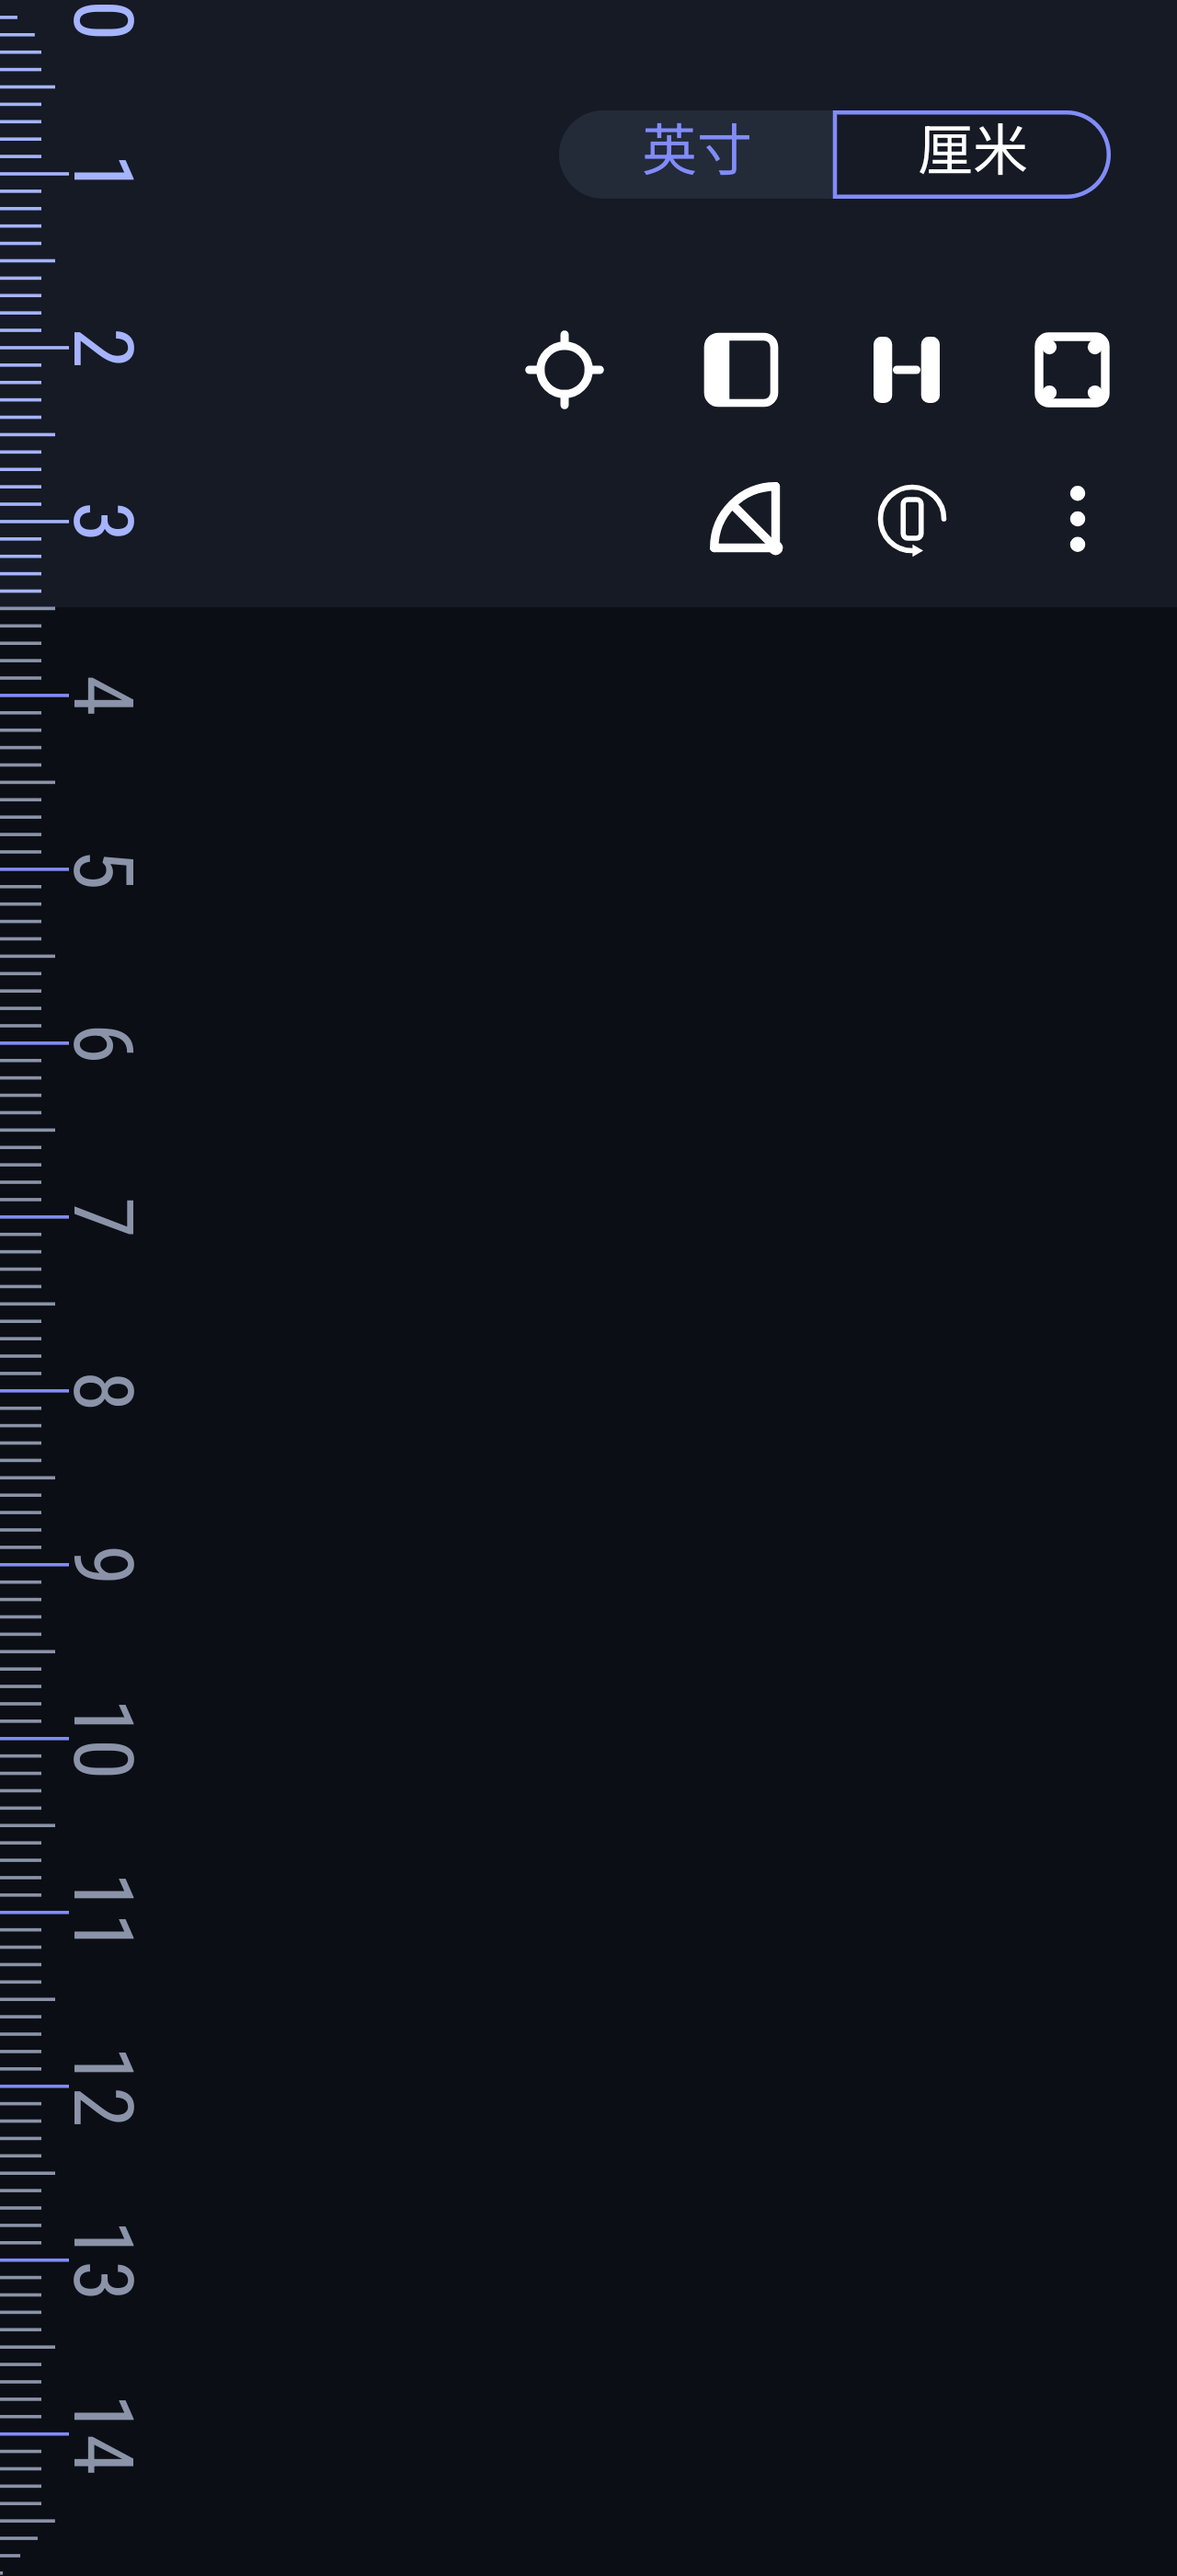
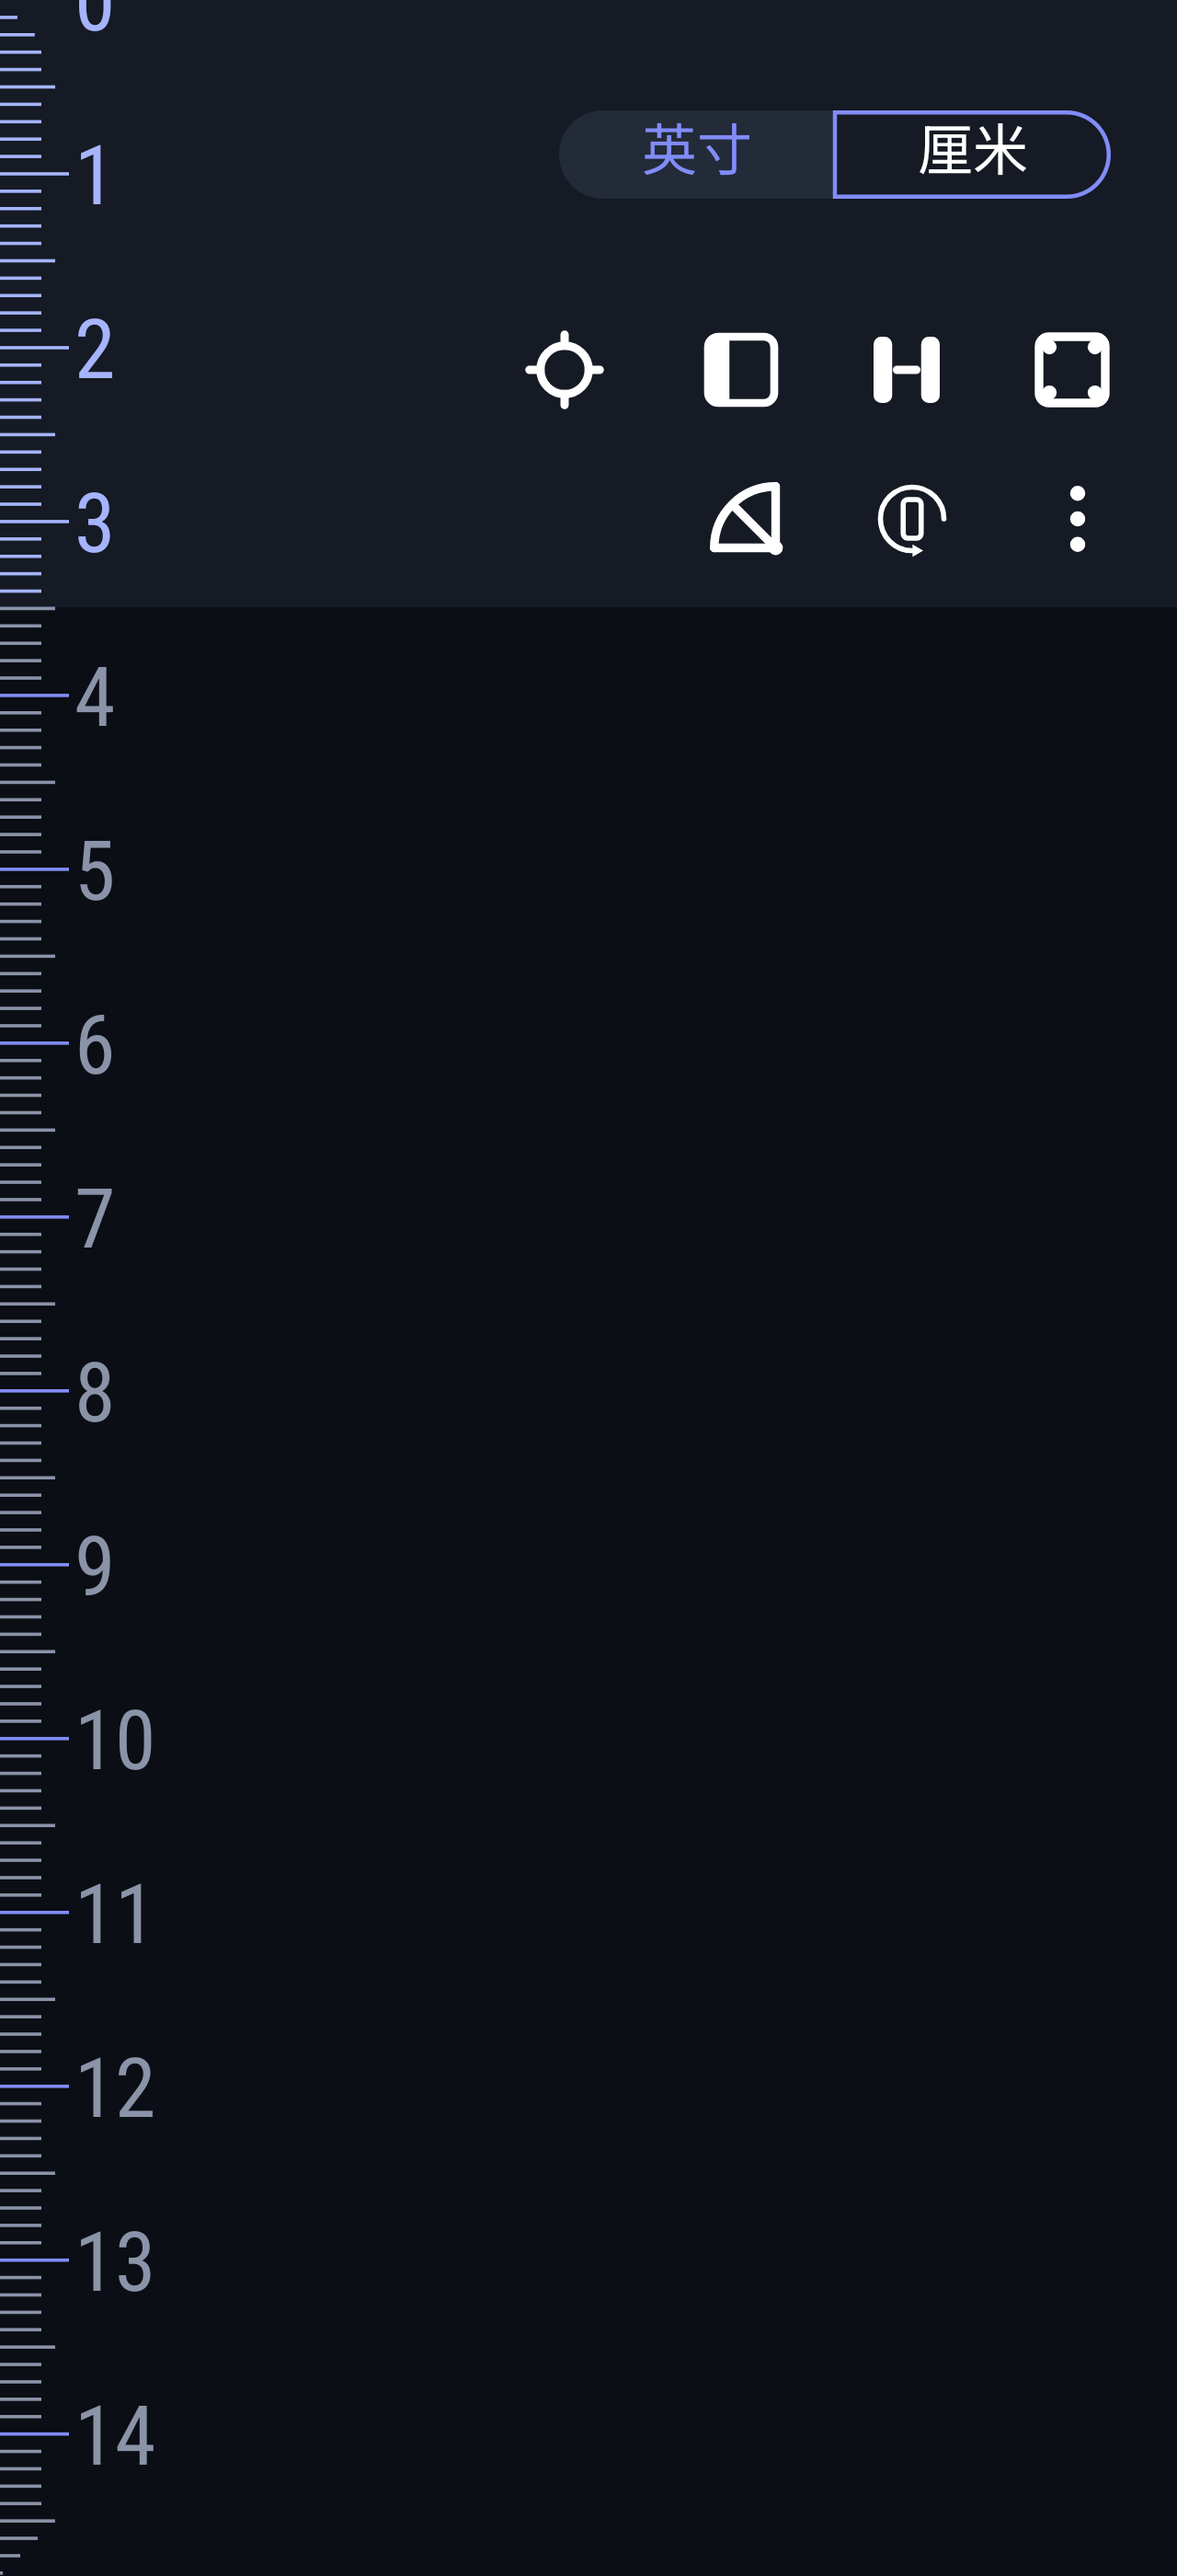
Keep ruler labels upright and turn the portrait protractor quarter turn
Portrait ruler: the tick numbers were rotated 90 degrees with the scale,
which meant tilting the head to read them while measuring. They now stay
horizontal in both orientations.

Portrait protractor: the dial runs along the left long edge (the edge that
gets lined up with the object) and the angle readout is drawn horizontally
at the bottom of the screen instead of inside the turned dial. Touch
mapping follows the turned dial so dragging an arm still matches the angle.

diff --git a/app/src/main/java/org/openruler/app/view/ProtractorView.kt b/app/src/main/java/org/openruler/app/view/ProtractorView.kt
@@ -48,6 +48,9 @@ class ProtractorView @JvmOverloads constructor(
     private var tickRadius = 0f
     private var wedgeRadius = 0f
 
+    /** `true` while the phone is upright: the dial then runs along the left long edge. */
+    private var portrait = false
+
     private val tickPaint = Paint(Paint.ANTI_ALIAS_FLAG).apply { style = Paint.Style.STROKE }
     private val labelPaint = Paint(Paint.ANTI_ALIAS_FLAG).apply {
         textAlign = Paint.Align.CENTER
@@ -104,11 +107,27 @@ class ProtractorView @JvmOverloads constructor(
 
     override fun onSizeChanged(w: Int, h: Int, oldw: Int, oldh: Int) {
         super.onSizeChanged(w, h, oldw, oldh)
-        centerX = w / 2f
         val bottomLimit = h - labelHeight - 2f * inset
-        tickRadius = min(bottomLimit - inset, w / 2f - inset - gap).coerceAtLeast(dp(40f))
-        centerY = bottomLimit
-        wedgeRadius = hypot(centerX, centerY) * 1.05f
+        portrait = h > w
+        if (portrait) {
+            // The long edge is the one that gets lined up with the object, so in portrait the
+            // dial takes a quarter turn: its base line runs down the left side and the scale
+            // opens to the right. Only the readout stays horizontal, along the bottom.
+            centerX = inset
+            centerY = bottomLimit / 2f
+            tickRadius = min(bottomLimit / 2f - inset, w - 2f * inset).coerceAtLeast(dp(40f))
+        } else {
+            centerX = w / 2f
+            centerY = bottomLimit
+            tickRadius = min(bottomLimit - inset, w / 2f - inset - gap).coerceAtLeast(dp(40f))
+        }
+        // The wedge has to reach past every corner, whichever way the dial is turned.
+        wedgeRadius = maxOf(
+            hypot(centerX, centerY),
+            hypot(w - centerX, centerY),
+            hypot(centerX, h - centerY),
+            hypot(w - centerX, h - centerY)
+        ) * 1.05f
         wedgeRect.set(
             centerX - wedgeRadius, centerY - wedgeRadius,
             centerX + wedgeRadius, centerY + wedgeRadius
@@ -127,6 +146,9 @@ class ProtractorView @JvmOverloads constructor(
         val color = palette.accent
         wedgePaint.color = color
         anglePaint.color = color
+
+        val saved = canvas.save()
+        if (portrait) canvas.rotate(90f, centerX, centerY)
 
         drawWedge(canvas)
         drawScale(canvas, color)
@@ -154,7 +176,12 @@ class ProtractorView @JvmOverloads constructor(
         // The pivot always sits inside the wedge; keep it visible while measuring.
         dotPaint.color = if (measuring) palette.background else color
         canvas.drawCircle(centerX, centerY, dp(2f), dotPaint)
-        canvas.drawText(String.format(Locale.ROOT, "%.1f°", angle), centerX, height - inset, anglePaint)
+
+        canvas.restoreToCount(saved)
+
+        // The readout keeps its own direction so it can be read while the phone is upright.
+        anglePaint.color = color
+        canvas.drawText(String.format(Locale.ROOT, "%.1f°", angle), width / 2f, height - inset, anglePaint)
     }
 
     private fun drawWedge(canvas: Canvas) {
@@ -274,7 +301,18 @@ class ProtractorView @JvmOverloads constructor(
         val dx = x - centerX
         val dy = centerY - y
         if (hypot(dx, dy) < dp(12f)) return null
-        val degrees = Math.toDegrees(atan2(dy.toDouble(), dx.toDouble())).toFloat()
+        val degrees = if (portrait) {
+            // The dial is turned a quarter turn here: 0° points down the screen, 90° right.
+            // Touches past the base line fold onto the nearer end of the scale.
+            val raw = Math.toDegrees(atan2(dx.toDouble(), (y - centerY).toDouble())).toFloat()
+            when {
+                raw < -90f -> 180f
+                raw < 0f -> 0f
+                else -> raw
+            }
+        } else {
+            Math.toDegrees(atan2(dy.toDouble(), dx.toDouble())).toFloat()
+        }
         return degrees.coerceIn(0f, 180f)
     }
 

diff --git a/app/src/main/java/org/openruler/app/view/RulerView.kt b/app/src/main/java/org/openruler/app/view/RulerView.kt
@@ -297,18 +297,9 @@ class RulerView @JvmOverloads constructor(
             canvas.drawLine(originX, y, originX + visible, y, paint)
             if (isLabel) {
                 val label = ((i / perLabel) * labelStep).toString()
-                if (portrait) {
-                    // Portrait: the numbers run down the long edge, the way the calibration
-                    // ruler prints them, so the scale keeps one drawing routine.
-                    val advance = textPaint.measureText(label)
-                    val start = (y - advance / 2f).coerceAtLeast(0f)
-                    val save = canvas.save()
-                    canvas.rotate(90f, labelX, start)
-                    canvas.drawText(label, labelX, start, textPaint)
-                    canvas.restoreToCount(save)
-                } else {
-                    canvas.drawText(label, labelX, y + labelTextHeight / 2f, textPaint)
-                }
+                // Labels stay horizontal in both orientations so the scale can be read at a
+                // glance while the phone is held upright.
+                canvas.drawText(label, labelX, y + labelTextHeight / 2f, textPaint)
             }
         }
         textPaint.textAlign = Paint.Align.CENTER

diff --git a/README.md b/README.md
@@ -22,12 +22,12 @@
 
 | 功能 | 说明 |
 | --- | --- |
-| 全屏尺子 | 默认竖屏，刻度沿左侧长边；横屏时刻度回到上下长边；厘米 / 毫米 / 英寸三种单位，1 mm 或 1/8 inch 一格 |
+| 全屏尺子 | 默认竖屏，刻度沿左侧长边；横屏时刻度回到上下长边；厘米 / 毫米 / 英寸三种单位，1 mm 或 1/8 inch 一格，数字始终横排、不用歪头看 |
 | 横竖屏切换 | 工具栏上的旋转按钮一键切换，设置里还可以选竖屏 / 横屏各自的反向 |
 | 单点测量 | 一条可拖动的边：竖屏从屏幕顶边量下来，横屏从屏幕左边缘量过去 |
 | 两点测量 | 两条可拖动的边，测量两点之间的距离 |
 | 矩形测量 | 可拖动矩形，实时显示宽、高与面积 |
-| 量角器 | 半圆刻度盘，两根可拖动的针，双指可同时调整夹角；竖屏下缩小直径、每 30° 标一个数字 |
+| 量角器 | 半圆刻度盘，两根可拖动的针，双指可同时调整夹角；竖屏下刻度盘沿左侧长边转 90°，读数横排在屏幕底部 |
 | 校准 | 用银行卡长边（85.60 mm）做参照，加减按钮或直接拖动微调，系数实时保存 |
 | 设置 | 屏幕方向、屏幕常亮、深色主题、边缘留白、语言、测量单位 |
 
